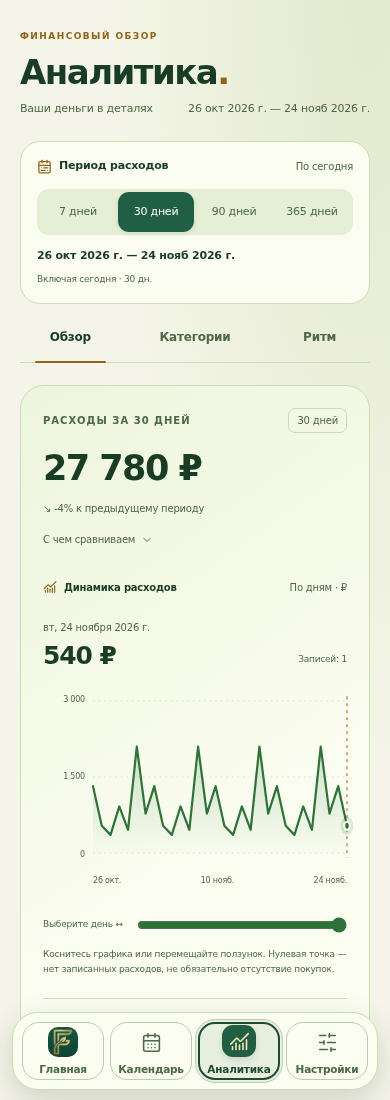
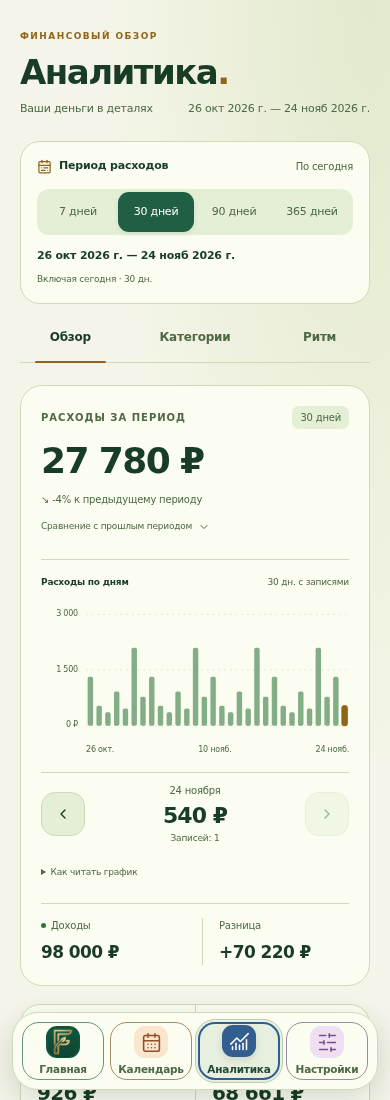
Replace sparse expense spikes with compact daily columns

diff --git a/analytics_pro.js b/analytics_pro.js
@@ -241,54 +241,58 @@
     const max = Math.max(...series.map(day => day.value));
     const step = Math.pow(10, Math.floor(Math.log10(max || 1)));
     const ceiling = Math.ceil((max || 1) / step) * step;
-    return { ceiling, points: series.map((day, i) => ({ x: i / (series.length - 1) * 320, y: 144 - day.value / ceiling * 132 })) };
+    const slot = 320 / series.length;
+    return { ceiling, slot, points: series.map((day, i) => ({ x: (i + .5) * slot, y: 118 - day.value / ceiling * 108 })) };
   }
 
-  // Every point is a recorded daily total, not a smoothed or invented value.
+  // Independent daily columns do not invent a continuous curve between sparse records.
   function renderExpenseTrend(data, period) {
-    if (!data.spent) return `<div class="ap-trend-empty"><i data-lucide="chart-no-axes-combined" aria-hidden="true"></i><span>Здесь появится динамика расходов<small>Добавьте первую операцию, чтобы увидеть график</small></span></div>`;
+    if (!data.spent) return `<div class="ap-trend-empty"><i data-lucide="chart-no-axes-combined" aria-hidden="true"></i><span>Здесь появятся расходы по дням<small>Добавьте первую операцию, чтобы увидеть график</small></span></div>`;
     const series = expenseSeries(data, period), geometry = trendGeometry(series);
     if (!series.some(day => day.date === selectedTrendDate)) selectedTrendDate = [...series].reverse().find(day => day.value > 0)?.date || series.at(-1).date;
     const index = series.findIndex(day => day.date === selectedTrendDate);
-    const line = `M${geometry.points.map(p => `${p.x.toFixed(2)},${p.y.toFixed(2)}`).join(' L')}`;
     const shortDate = key => new Date(`${key}T12:00:00`).toLocaleDateString('ru-RU', { day: 'numeric', month: 'short' });
     const axis = value => Number(value).toLocaleString('ru-RU', { notation: value >= 10000 ? 'compact' : 'standard', maximumFractionDigits: 3 });
-    return `<figure class="ap-trend" aria-label="Расходы по дням за выбранный период">
-      <figcaption><span><i data-lucide="chart-no-axes-combined" aria-hidden="true"></i>Динамика расходов</span><span>По дням · ${esc(data.currency)}</span></figcaption>
-      <div class="ap-trend-readout" aria-live="polite" aria-atomic="true"><div><span class="ap-trend-date"></span><strong class="ap-trend-value money-val"></strong></div><span class="ap-trend-count"></span></div>
-      <div class="ap-plot-layout"><div class="ap-y-axis" aria-hidden="true"><span>${axis(geometry.ceiling)}</span><span>${axis(geometry.ceiling / 2)}</span><span>0</span></div><div class="ap-plot-surface">
-        <svg viewBox="0 0 320 156" preserveAspectRatio="none" aria-hidden="true"><defs><linearGradient id="ap-trend-fill" x1="0" y1="0" x2="0" y2="1"><stop offset="0%" stop-color="var(--accent)" stop-opacity=".2"/><stop offset="100%" stop-color="var(--accent)" stop-opacity=".01"/></linearGradient></defs><path class="ap-chart-grid" d="M0 12H320 M0 78H320 M0 144H320"/><path class="ap-chart-area" d="${line} L320,144 L0,144 Z"/><path class="ap-chart-line" d="${line}"/><line class="ap-chart-cursor" y1="8" y2="148"/><circle class="ap-chart-halo" r="8"/><circle class="ap-chart-point" r="3.5"/></svg>
+    return `<figure class="ap-trend ap-bar-trend" aria-label="Расходы по дням за выбранный период">
+      <figcaption><span>Расходы по дням</span><span>${Object.keys(data.byDate).length} дн. с записями</span></figcaption>
+      <div class="ap-plot-layout"><div class="ap-y-axis" aria-hidden="true"><span>${axis(geometry.ceiling)}</span><span>${axis(geometry.ceiling / 2)}</span><span>0 ${esc(data.currency)}</span></div><div class="ap-plot-surface ap-chart-range" role="slider" tabindex="0" aria-label="День на графике расходов" aria-valuemin="0" aria-valuemax="${series.length - 1}" aria-valuenow="${index}">
+        <svg viewBox="0 0 320 128" preserveAspectRatio="none" aria-hidden="true"><path class="ap-chart-grid" d="M0 10H320 M0 64H320 M0 118H320"/>${series.map((day,i)=>{const p=geometry.points[i],width=geometry.slot*.62;return `<rect class="ap-day-bar ${day.count?'':'ap-day-unrecorded'}" data-day-index="${i}" x="${p.x-width/2}" y="${day.count?p.y:116}" width="${width}" height="${day.count?118-p.y:2}" rx="${Math.min(2,width/2)}"/>`;}).join('')}</svg>
         <div class="ap-chart-axis"><span>${shortDate(series[0].date)}</span><span>${shortDate(series[Math.floor(series.length / 2)].date)}</span><span>${shortDate(series.at(-1).date)}</span></div>
       </div></div>
-      <label class="ap-chart-control"><span>Выберите день <span aria-hidden="true">↔</span></span><input class="ap-chart-range" type="range" min="0" max="${series.length - 1}" value="${index}" step="1" aria-label="День на графике расходов" /></label>
-      <p class="ap-chart-caption">Коснитесь графика или перемещайте ползунок. Нулевая точка — нет записанных расходов, не обязательно отсутствие покупок.</p>
+      <div class="ap-trend-readout"><button type="button" data-chart-step="-1" aria-label="Предыдущий день"><i data-lucide="chevron-left" aria-hidden="true"></i></button><div aria-live="polite" aria-atomic="true"><span class="ap-trend-date"></span><strong class="ap-trend-value money-val"></strong><span class="ap-trend-count"></span></div><button type="button" data-chart-step="1" aria-label="Следующий день"><i data-lucide="chevron-right" aria-hidden="true"></i></button></div>
+      <details class="ap-chart-help"><summary>Как читать график</summary><p>Каждый столбец — сумма записанных расходов за день. Касайтесь графика или выбирайте дату стрелками. Короткая серая отметка — нет записей, а не подтверждённый нулевой расход.</p></details>
     </figure>`;
   }
 
   function bindExpenseTrend(container, data, period) {
     const figure = container.querySelector('.ap-trend');
     if (!figure) return;
-    const series = expenseSeries(data, period), { points } = trendGeometry(series);
+    const series = expenseSeries(data, period);
     const range = figure.querySelector('.ap-chart-range'), surface = figure.querySelector('.ap-plot-surface');
     function select(raw) {
       const i = Math.max(0, Math.min(series.length - 1, Math.round(raw)));
-      const day = series[i], point = points[i];
+      const day = series[i];
       selectedTrendDate = day.date;
-      const dateLabel = new Date(`${day.date}T12:00:00`).toLocaleDateString('ru-RU', { weekday: 'short', day: 'numeric', month: 'long', year: 'numeric' });
-      range.value = String(i);
+      const dateLabel = new Date(`${day.date}T12:00:00`).toLocaleDateString('ru-RU', { day: 'numeric', month: 'long' });
+      range.setAttribute('aria-valuenow', String(i));
       range.setAttribute('aria-valuetext', `${dateLabel}, ${exactMoney(day.value, data.currency)}, записей: ${day.count}`);
       figure.querySelector('.ap-trend-date').textContent = dateLabel;
       figure.querySelector('.ap-trend-value').textContent = exactMoney(day.value, data.currency);
       figure.querySelector('.ap-trend-count').textContent = day.count ? `Записей: ${day.count}` : 'Нет записанных расходов';
-      const cursor = figure.querySelector('.ap-chart-cursor');
-      cursor.setAttribute('x1', point.x); cursor.setAttribute('x2', point.x);
-      figure.querySelectorAll('.ap-chart-point, .ap-chart-halo').forEach(el => { el.setAttribute('cx', point.x); el.setAttribute('cy', point.y); });
+      figure.querySelectorAll('.ap-day-bar').forEach((bar,index)=>bar.classList.toggle('is-selected',index===i));
+      figure.querySelector('[data-chart-step="-1"]').disabled = i === 0;
+      figure.querySelector('[data-chart-step="1"]').disabled = i === series.length - 1;
     }
-    range.addEventListener('input', () => select(Number(range.value)));
-    const fromPointer = event => { const box = surface.getBoundingClientRect(); select((event.clientX - box.left) / box.width * (series.length - 1)); };
+    range.addEventListener('keydown', event => {
+      const current=Number(range.getAttribute('aria-valuenow'));
+      const keys={ArrowLeft:current-1,ArrowDown:current-1,ArrowRight:current+1,ArrowUp:current+1,Home:0,End:series.length-1};
+      if(Object.prototype.hasOwnProperty.call(keys,event.key)){event.preventDefault();select(keys[event.key]);}
+    });
+    figure.querySelectorAll('[data-chart-step]').forEach(button=>button.addEventListener('click',()=>select(Number(range.getAttribute('aria-valuenow'))+Number(button.dataset.chartStep))));
+    const fromPointer = event => { const box = surface.getBoundingClientRect(); select(Math.floor((event.clientX - box.left) / box.width * series.length)); };
     surface.addEventListener('pointerdown', event => { if (event.button !== 0) return; fromPointer(event); surface.setPointerCapture(event.pointerId); });
     surface.addEventListener('pointermove', event => { if (surface.hasPointerCapture(event.pointerId)) fromPointer(event); });
-    select(Number(range.value));
+    select(Number(range.getAttribute('aria-valuenow')));
   }
 
   function renderPeriodInformation(data, period) {
@@ -330,10 +334,10 @@
       <div class="ap-category-row"><span class="ap-category-dot" style="background:${cat.meta.color}"></span><span class="ap-category-name">${esc(cat.name)}</span><span class="ap-category-amount money-val">${fmt(cat.total, data.currency)}</span><span class="ap-category-share">${Math.round(cat.pct)}%</span><div class="ap-category-rail" aria-hidden="true"><span style="width:${cat.pct}%;background:${cat.meta.color}"></span></div></div>`).join('');
     return `
       <div class="ftx-ap-card gold ap-expense-hero">
-        <div class="ap-hero-heading"><div class="ftx-ap-kicker">Расходы за ${period.days} дней</div><span class="ap-period-caption">${period.label}</span></div>
+        <div class="ap-hero-heading"><div class="ftx-ap-kicker">Расходы за период</div><span class="ap-period-caption">${period.label}</span></div>
         <div class="ftx-ap-big money-val">${fmt(data.spent, data.currency)}</div>
         <span class="ftx-ap-delta ${deltaClass}">${data.deltaPct > 0 ? '↗' : data.deltaPct < 0 ? '↘' : '—'} ${esc(deltaLabel)}</span>
-        <details class="ap-comparison"><summary>С чем сравниваем <i data-lucide="chevron-down" aria-hidden="true"></i></summary><p>Предыдущие ${period.days} дн.: ${previous.first} — ${previous.last}</p><strong class="money-val">${fmt(data.prevSpent, data.currency)}</strong><p>Периоды равной длины и не пересекаются. Учитываются только записанные операции.</p></details>
+        <details class="ap-comparison"><summary>Сравнение с прошлым периодом <i data-lucide="chevron-down" aria-hidden="true"></i></summary><p>Предыдущие ${period.days} дн.: ${previous.first} — ${previous.last}</p><strong class="money-val">${fmt(data.prevSpent, data.currency)}</strong><p>Периоды равной длины и не пересекаются. Учитываются только записанные операции.</p></details>
         ${renderExpenseTrend(data, period)}
         <div class="ap-flow-summary">
           <div><div class="ftx-ap-stat-label"><span class="ap-flow-dot"></span>Доходы</div><div class="ap-flow-value money-val">${fmt(data.income, data.currency)}</div></div>

diff --git a/design-system.css b/design-system.css
@@ -1493,3 +1493,38 @@ body #filely-financial-tree[data-animation-paused='true'] .ft-falling-leaf { ani
 html.no-motion body #filely-financial-tree .ft-falling-leaves { display: none; }
 @media(prefers-reduced-motion:reduce) { body #filely-financial-tree .ft-falling-leaves { display: none; } }
 @media(max-width:359px) { body .behavior-panel .behavior-planner > summary { padding: 16px; gap: 10px; } body .savings-planner-title strong { font-size: 15px; } body .savings-planner-body { padding: 0 16px 16px; } body .savings-fields label { padding: 10px; } }
+
+/* v55 · compact daily columns, not sparse spikes or an oversized native slider. */
+body .ftx-ap .ftx-ap-card.ap-expense-hero { background: var(--surface-1); padding: 20px; border-radius: 22px; }
+body .ap-expense-hero .ftx-ap-big { margin: 10px 0 6px; font-size: 36px; }
+body .ap-expense-hero .ap-period-caption { background: var(--surface-2); border: 0; }
+body .ap-expense-hero .ap-comparison { margin-top: 4px; }
+body .ap-expense-hero .ap-comparison summary { font-size: 9px; }
+body .ap-bar-trend { margin-top: 18px; padding-top: 16px; border-top: 1px solid var(--border-subtle); }
+body .ap-bar-trend figcaption { margin-bottom: 14px; font-size: 9px; }
+body .ap-bar-trend .ap-plot-layout { grid-template-columns: 37px minmax(0,1fr); gap: 8px; }
+body .ap-bar-trend .ap-y-axis { height: 132px; position: relative; padding: 0; display: block; }
+body .ap-bar-trend .ap-y-axis > span { position: absolute; right: 0; transform: translateY(-50%); }
+body .ap-bar-trend .ap-y-axis > span:nth-child(1) { top: 7.8125%; }
+body .ap-bar-trend .ap-y-axis > span:nth-child(2) { top: 50%; }
+body .ap-bar-trend .ap-y-axis > span:nth-child(3) { top: 92.1875%; }
+body .ap-bar-trend .ap-plot-surface > svg { height: 132px; }
+body .ap-day-bar { fill: var(--accent); opacity: .58; }
+body .ap-day-bar.is-selected { fill: var(--gold); opacity: 1; stroke: var(--gold); stroke-width: 1; vector-effect: non-scaling-stroke; }
+body .ap-day-unrecorded { fill: var(--border-active); opacity: .45; }
+body .ap-day-unrecorded.is-selected { fill: var(--text-secondary); stroke: var(--text-secondary); }
+body .ap-bar-trend .ap-chart-axis { font-size: 8px; margin-top: 8px; }
+body .ap-bar-trend .ap-trend-readout { display: grid; grid-template-columns: 44px minmax(0,1fr) 44px; align-items: center; gap: 8px; min-height: 74px; margin: 16px 0 0; padding: 10px 0; border-top: 1px solid var(--border-subtle); }
+body .ap-bar-trend .ap-trend-readout > div { min-width: 0; text-align: center; }
+body .ap-bar-trend .ap-trend-date { font-size: 10px; }
+body .ap-bar-trend .ap-trend-value { font-size: 22px; margin-top: 4px; }
+body .ap-bar-trend .ap-trend-count { display: block; font-size: 9px; text-align: center; max-width: none; padding: 0; margin-top: 3px; }
+body .ap-bar-trend .ap-trend-readout > button { display: grid; place-items: center; min-height: 44px; width: 44px; border: 1px solid var(--border-subtle); border-radius: 14px; background: var(--surface-2); color: var(--text-primary); }
+body .ap-bar-trend .ap-trend-readout > button > svg { width: 16px; height: 16px; margin: 0; }
+body .ap-chart-help { margin-top: 3px; color: var(--text-secondary); font-size: 9px; line-height: 1.7; }
+body .ap-chart-help summary { cursor: pointer; min-height: 30px; padding: 6px 0; }
+body .ap-chart-help p { margin: 6px 0; }
+body .ap-expense-hero .ap-flow-summary { margin-top: 14px; padding-top: 14px; }
+body .ap-expense-hero .ap-flow-value { font-size: 17px; }
+@media(max-width:359px) { body .ftx-ap .ftx-ap-card.ap-expense-hero { padding: 18px 16px; } body .ap-expense-hero .ftx-ap-big { font-size: 32px; } }
+body .ap-bar-trend .ap-trend-readout > button:disabled { opacity: .4; cursor: default; }

diff --git a/index.html b/index.html
@@ -18,7 +18,7 @@
   <script src="./appearance.js?v=41"></script>
   <script src="./cloud.js?v=39"></script>
   <link rel="stylesheet" href="./styles.css?v=22" />
-  <link rel="stylesheet" href="./design-system.css?v=54" />
+  <link rel="stylesheet" href="./design-system.css?v=55" />
 </head>
 <body class="max-w-md mx-auto min-h-screen relative select-none">
 
@@ -1865,7 +1865,7 @@
   <script src="./app.js?v=49"></script>
   <script src="./investment-market.js?v=27"></script>
   <script src="./investments.js?v=27"></script>
-  <script src="./extensions.js?v=53"></script>
+  <script src="./extensions.js?v=55"></script>
   <script src="./quick_add.js?v=19" data-fintex-mod="quick_add.js"></script>
   <script src="./sim_engine.js?v=34" data-fintex-mod="sim_engine.js"></script>
   <script src="./sim_ui.js?v=34" data-fintex-mod="sim_ui.js"></script>

diff --git a/extensions.js b/extensions.js
@@ -151,7 +151,7 @@ window.FINTEX_EXT = {
       return;
     }
     const s = document.createElement('script');
-    s.src = `./${src}?v=${src==='analytics_pro.js'?53:34}`;
+    s.src = `./${src}?v=${src==='analytics_pro.js'?55:34}`;
     s.dataset.fintexMod = src;
     s.async = false;
     s.onload = () => {

diff --git a/README.md b/README.md
@@ -267,3 +267,11 @@ npm run test:ui
 «Темп накоплений» оформлен отдельной раскрываемой карточкой с двумя полями, крупным сроком по собственному плану и отдельной областью «Что видно по истории». Срок обновляется при вводе: оставшаяся сумма / ежемесячный взнос с округлением вверх до месяцев. Это условный сценарий с постоянным взносом, без доходности и инфляции, не прогноз и не гарантия. Не заполненные поля не заменяются выдуманной целью. Сохранение — только по кнопке; баланс, подушка и операции не меняются. Существующий ориентир по истории и его ограничения сохранены. Сохранённые числа отображаются с русскими разделителями.
 
 У дерева добавлено шесть падающих листьев разного размера, зелёного/золотого оттенка, скорости и фазы. Листья плавно опускаются от кроны, покачиваются, переворачиваются и исчезают у основания; существующий сильный ветер сохранён. Используются только CSS transform/opacity и фиксированное число элементов — без генерации частиц по таймеру. Слои останавливаются при скрытии/выходе из экрана/переходе в другой раздел, а при отключении движения/системном reduced-motion листопад скрыт. Проверены падение по вертикали, ограниченное число элементов, пауза/выключение, 320px и неизменность финансовых данных.
+
+### Компактный график для разреженной истории — v55
+
+По замечанию к экрану на телефоне ежедневная линия заменена независимыми столбцами: редкие покупки больше не соединяются искусственной «пилой» через дни без записей. Каждый из 7/30/90/365 дней имеет свой столбец либо короткую приглушённую отметку отсутствия записей. Масштаб остаётся линейным; высота положительного столбца соответствует фактической сумме, без минимального выдуманного расхода.
+
+Нативный ползунок удалён. Выбор доступен касанием/перетаскиванием по графику, кнопками предыдущего/следующего дня и с клавиатуры (стрелки/Home/End на графике с ролью slider и актуальным aria-valuetext). Дата, точная сумма и число записей собраны под графиком; объяснение раскрывается отдельно. Укорочены график и отступы, убрана заливка-подложка карточки, сохранены денежная шкала, доходы/разница, все палитры, приватность и вертикальная прокрутка. На границах периода соответствующая кнопка недоступна.
+
+Есть отдельная регрессия с тремя расходными днями и 27 днями без записей, проверкой высоты карточки на 320/390px, выбора дней и неизменности журнала. Синтетический тёмный пример: `docs/expense-sparse-dark-preview.png`. Финансовые данные и сервер не менялись; кэш интерфейса v55.
